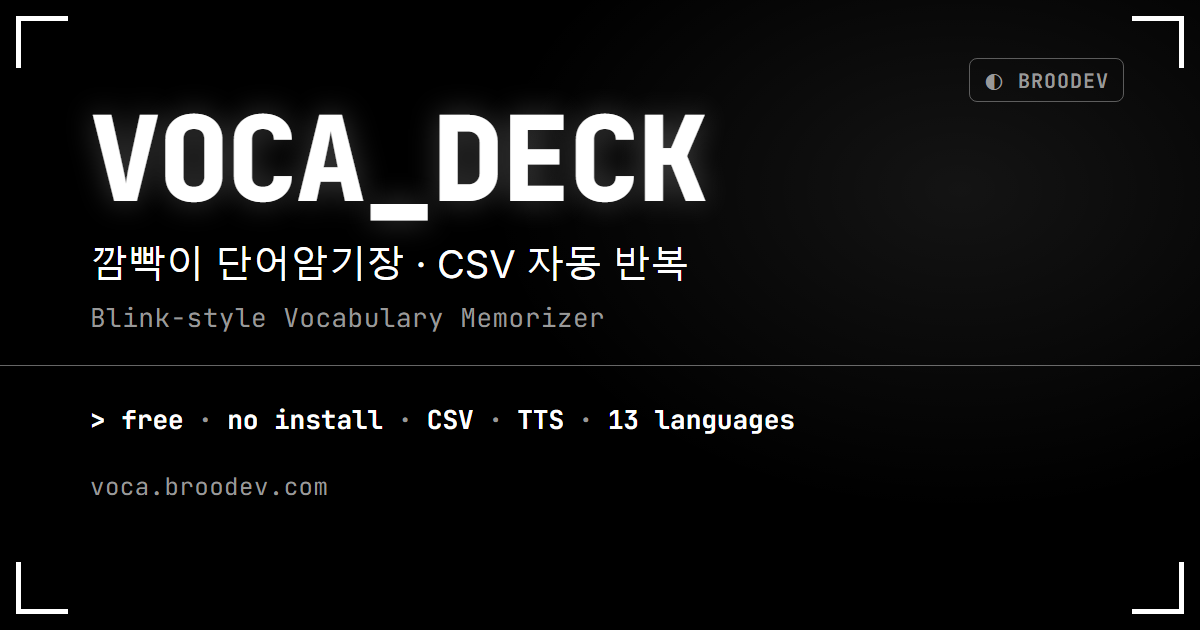
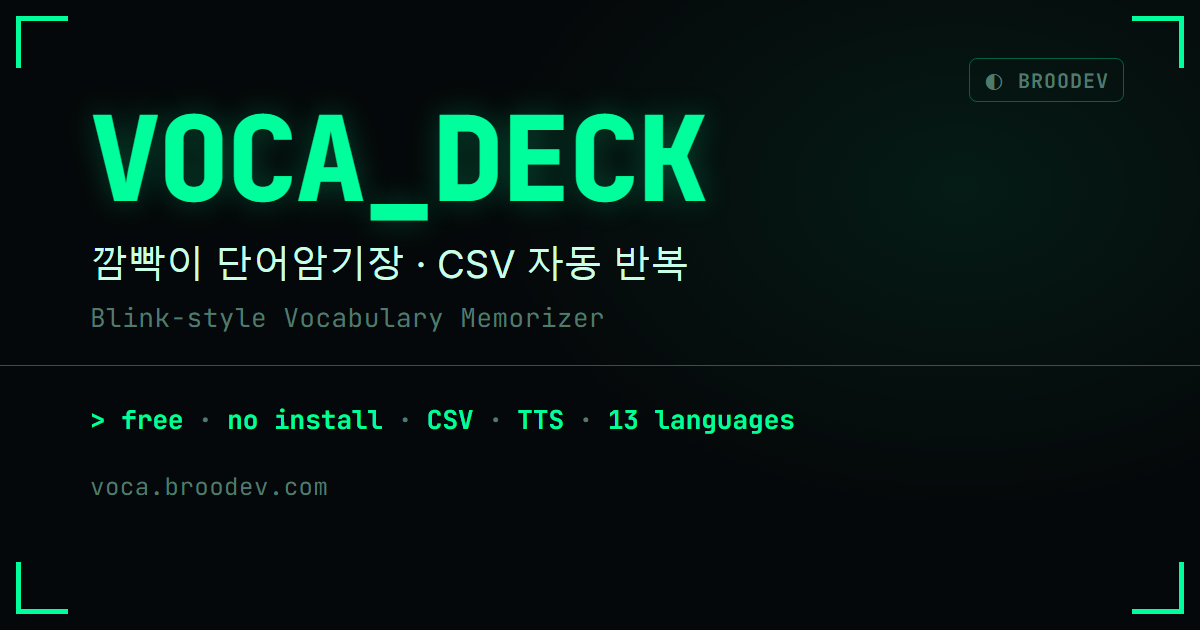
voca: BROODEV theme = btc-style neon green terminal palette (was b/w monotone); OG + portal featured card regenerated; theme.js/content.css tokens 20261005

diff --git a/apps/voca/index.html b/apps/voca/index.html
@@ -13,7 +13,7 @@
     />
     <meta name="author" content="VOCA DECK" />
     <meta name="robots" content="index, follow" />
-    <meta name="theme-color" content="#000000" /> <!-- 기본 테마 BROODEV. theme.js 가 저장된 테마에 맞춰 갱신(ORIGINAL = #000040) -->
+    <meta name="theme-color" content="#05080a" /> <!-- 기본 테마 BROODEV(btc 계열 네온 그린). theme.js 가 저장된 테마에 맞춰 갱신(ORIGINAL = #000040) -->
 
     <!-- 최초 방문 1회만 튜토리얼로 리다이렉트 (React 로드 전 실행 → 깜빡임 없음).
          voca:visited 영구 플래그로 재발 방지. 기존 사용자(저장값 보유)·봇·운영 외 도메인은 제외. -->
@@ -34,7 +34,7 @@
       })()
     </script>
     <!-- 테마(BROODEV 기본 / ORIGINAL) — CSS 보다 먼저 html[data-theme] 지정. 로직·마이그레이션은 theme.js(콘텐츠 페이지와 공용) -->
-    <script src="theme.js?v=20261003"></script>
+    <script src="theme.js?v=20261005"></script>
     <!-- 검색엔진 소유확인: 각 도구에서 발급한 토큰으로 교체 후 주석 해제 -->
     <!-- <meta name="google-site-verification" content="GOOGLE_TOKEN" /> -->
     <meta name="naver-site-verification" content="71ec011b9f547d4c358c955aee2979e8a43fee00" />
@@ -154,35 +154,37 @@
       /* ===== 테마 (2026-10-03) =====
          색은 전부 변수로만 쓴다(--panel-… · --led-… 는 원래 있던 이름, --t-… 는 테마용으로 추가. 주석 안에 별표+슬래시를 쓰면 주석이 닫히니 주의). 테마 추가 = 변수 블록 하나 더.
          html[data-theme] 는 theme.js 가 CSS 보다 먼저 지정(localStorage voca:theme, 기본 broodev), 헤더 ◐ 풀다운이 바꾼다(새로고침 없음).
-         - BROODEV(기본, :root): broodev.com 포털의 흑백 모노톤 — 검정 #000 · 흰색 · 회색 #999/#666 · 1px 반투명 테두리 · 둥근 모서리 · 흰 LED
+         - BROODEV(기본, :root): btc.broodev.com 계열(코인 시그널 15종)의 네온 그린 터미널 팔레트 — 바탕 #05080a(거의 검정) · 글자 민트 #c8ffe6 · 강조 네온 #00ff9c ·
+           보조 #4f7a6c · 패널 #0a1014 · 1px 녹색 반투명 테두리 rgba(0,255,156,.18) · 둥근 모서리 · 네온 LED. (2026-10-05 — 처음(10-03)엔 포털의 흑백 모노톤으로 잘못 잡았던 것을 교정.
+           「BROODEV 컬러 컨셉」= btc 의 검정 바탕 + 녹색 글자)
          - ORIGINAL: 원래의 남색 #000040 + 노란 글자 · Win95 회색(#d4d0c8) 베벨 제어판 · 초록 LED · 네온 로고
          표시 영역(단어 글자색·배경)은 사용자 설정(cfg.bg/fontColor)이 null 이면 테마 기본색 — JS 의 THEMES 가 담당 */
       :root {
         color-scheme: dark;
         --ui-font: 'Apple SD Gothic Neo', 'Malgun Gothic', 'Dotum', sans-serif;
-        --navy: #000000;
-        --panel-gray: #141414;                                 /* 제어판·팝오버·모달·게시판 패널 면 */
-        --panel-dark: rgba(255,255,255,.16);                   /* 베벨 두 색을 같게 → 평면 1px 테두리 */
-        --panel-light: rgba(255,255,255,.16);
-        --led-on: #ffffff; --led-off: #333333; --t-led-hi: #4a4a4a; --t-led-on-hi: #ffffff; --t-led-line: #111111; --t-led-glow: rgba(255,255,255,.7);
+        --navy: #05080a;
+        --panel-gray: #0a1014;                                 /* 제어판·팝오버·모달·게시판 패널 면 */
+        --panel-dark: rgba(0,255,156,.18);                     /* 베벨 두 색을 같게 → 평면 1px 테두리 */
+        --panel-light: rgba(0,255,156,.18);
+        --led-on: #00ff9c; --led-off: #1a3a2e; --t-led-hi: #2a5a48; --t-led-on-hi: #b6ffe0; --t-led-line: #06201a; --t-led-glow: rgba(0,255,156,.7);
         --t-bevel-w: 1px; --t-radius: 6px;
-        --t-body-bg: #000000; --t-page-bg: #000000;
-        --t-fg: #ffffff; --t-muted: #999999; --t-accent: #ffffff; --t-on-accent: #000000; --t-link: #ffffff;
-        --t-nav-bg: #000000; --t-nav-line: rgba(255,255,255,.12); --t-nav-accent: #ffffff; --t-nav-link: #999999; --t-nav-opt-bg: #1a1a1a; --t-nav-opt-fg: #ffffff;
-        --t-hdr-bg: #000000; --t-hdr-line: rgba(255,255,255,.1); --t-logo: #ffffff; --t-logo-glow: transparent; --t-hdr-dim: #4d4d4d; --t-hdr-border: rgba(255,255,255,.18); --t-hdr-btn-bg: #1a1a1a;
-        --t-inset-border: 1px solid rgba(255,255,255,.14); --t-pane-line: rgba(255,255,255,.25); --t-group-border: 1px solid rgba(255,255,255,.14);
-        --t-panel-fg: #e6e6e6; --t-panel-fg2: #cccccc; --t-panel-dim: #999999; --t-panel-dim2: #888888; --t-panel-top: 1px solid rgba(255,255,255,.12);
-        --t-btn-bg: #222222; --t-btn-active-bg: #2e2e2e; --t-sub-bg: #1f1f1f; --t-sub-bg2: #1a1a1a; --t-input-bg: #000000; --t-disabled: #555555;
-        --t-quit-bg: #ffffff; --t-quit-fg: #000000; --t-quit-line: #ffffff; --t-next-bg: #ffffff; --t-next-fg: #000000; --t-next-line: #ffffff;
-        --t-lbl-on-bg: #2a2a2a; --t-lbl-on-line: #777777; --t-focus: #ffffff; --t-check: #ffffff;
-        --t-shadow: 0 8px 24px rgba(0,0,0,.6); --t-shadow-lg: 0 12px 40px rgba(0,0,0,.7); --t-overlay: rgba(0,0,0,.7); --t-toast-fg: #ffffff;
-        --t-jump-bg: rgba(26,26,26,.85); --t-jump-bg-fixed: rgba(26,26,26,.95); --t-jump-line: rgba(255,255,255,.3); --t-jump-fg: #cccccc;
-        --t-tab-bg: #0d0d0d; --t-tab-fg: #999999;
-        --t-table-fg: #e6e6e6; --t-table-dim: #777777; --t-th-bg: #1a1a1a; --t-th-line: rgba(255,255,255,.14); --t-row-line: rgba(255,255,255,.08); --t-row-hover: #161616; --t-row-applied: #1c1c1c;
-        --t-ok: #ffffff; --t-bad: #ff7676; --t-err-bg: #3a1414; --t-hl: rgba(255,255,255,.12);
-        --t-prm-bg: #1a1a1a; --t-prm-line: rgba(255,255,255,.3); --t-badge-fg: #000000; --t-badge-line: #ffffff;
-        --t-code-bg: #1a1a1a; --t-foot-line: rgba(255,255,255,.1); --t-foot-fg: #666666;
-        --t-empty-top: #777777; --t-empty-bot: #555555;
+        --t-body-bg: #05080a; --t-page-bg: #05080a;
+        --t-fg: #c8ffe6; --t-muted: #4f7a6c; --t-accent: #00ff9c; --t-on-accent: #04110c; --t-link: #00ff9c;
+        --t-nav-bg: #05080a; --t-nav-line: rgba(0,255,156,.18); --t-nav-accent: #00ff9c; --t-nav-link: #8fb3a6; --t-nav-opt-bg: #0a1014; --t-nav-opt-fg: #c8ffe6;
+        --t-hdr-bg: #05080a; --t-hdr-line: rgba(0,255,156,.18); --t-logo: #00ff9c; --t-logo-glow: rgba(0,255,156,.45); --t-hdr-dim: #2f4a40; --t-hdr-border: rgba(0,255,156,.3); --t-hdr-btn-bg: #0a1014;
+        --t-inset-border: 1px solid rgba(0,255,156,.2); --t-pane-line: rgba(0,255,156,.3); --t-group-border: 1px solid rgba(0,255,156,.2);
+        --t-panel-fg: #c8ffe6; --t-panel-fg2: #a9d9c4; --t-panel-dim: #4f7a6c; --t-panel-dim2: #3f6a5c; --t-panel-top: 1px solid rgba(0,255,156,.18);
+        --t-btn-bg: #0d1a16; --t-btn-active-bg: #12241c; --t-sub-bg: #0d1a16; --t-sub-bg2: #0a1410; --t-input-bg: #000000; --t-disabled: #2f4a40;
+        --t-quit-bg: #ff3b5c; --t-quit-fg: #ffffff; --t-quit-line: #ff3b5c; --t-next-bg: #00ff9c; --t-next-fg: #04110c; --t-next-line: #00ff9c;
+        --t-lbl-on-bg: #0d1f17; --t-lbl-on-line: #00ff9c; --t-focus: #00ff9c; --t-check: #00ff9c;
+        --t-shadow: 0 8px 24px rgba(0,0,0,.6); --t-shadow-lg: 0 12px 40px rgba(0,0,0,.7); --t-overlay: rgba(0,0,0,.7); --t-toast-fg: #00ff9c;
+        --t-jump-bg: rgba(10,16,20,.85); --t-jump-bg-fixed: rgba(10,16,20,.95); --t-jump-line: rgba(0,255,156,.3); --t-jump-fg: #8fb3a6;
+        --t-tab-bg: #070c0f; --t-tab-fg: #8fb3a6;
+        --t-table-fg: #c8ffe6; --t-table-dim: #4f7a6c; --t-th-bg: #0a1a14; --t-th-line: rgba(0,255,156,.18); --t-row-line: rgba(0,255,156,.08); --t-row-hover: #0a1410; --t-row-applied: #0d1f17;
+        --t-ok: #00ff9c; --t-bad: #ff3b5c; --t-err-bg: #3a1414; --t-hl: rgba(0,255,156,.12);
+        --t-prm-bg: #0a1a14; --t-prm-line: rgba(0,255,156,.35); --t-badge-fg: #04110c; --t-badge-line: #00ff9c;
+        --t-code-bg: #0a1014; --t-foot-line: rgba(0,255,156,.12); --t-foot-fg: #4f7a6c;
+        --t-empty-top: #4f7a6c; --t-empty-bot: #2f4a40;
       }
       html[data-theme="original"] {
         color-scheme: light;
@@ -599,7 +601,7 @@
           var th = tsel.value;
           document.documentElement.setAttribute('data-theme', th);
           try { localStorage.setItem('voca:theme', JSON.stringify(th)); } catch (e) {}
-          var m = document.querySelector('meta[name="theme-color"]'); if (m) m.setAttribute('content', th === 'original' ? '#000040' : '#000000');
+          var m = document.querySelector('meta[name="theme-color"]'); if (m) m.setAttribute('content', th === 'original' ? '#000040' : '#05080a');
           try { window.dispatchEvent(new CustomEvent('voca:theme', { detail: th })); } catch (e) {}
         });
         toggle.addEventListener('click', function () {
@@ -1603,7 +1605,7 @@
       }
       /* 테마별 표시 영역 기본색 + 스와치 프리셋. 나머지 UI 색은 CSS 변수(html[data-theme])가 담당 — 진실은 html[data-theme] 속성(theme.js · 헤더 풀다운) */
       const THEMES = {
-        broodev:  { bg: '#000000', fg: '#ffffff', bgPresets: ['#000000', '#111111', '#1f1f1f', '#000040', '#0a1a0a'], fgPresets: ['#ffffff', '#cccccc', '#999999', '#ffff00', '#66ccff'] },
+        broodev:  { bg: '#000000', fg: '#00ff9c', bgPresets: ['#000000', '#05080a', '#0a1014', '#000040', '#111111'], fgPresets: ['#00ff9c', '#c8ffe6', '#ffffff', '#ffff00', '#66ccff'] },   // btc 계열: 검정 바탕 + 네온 그린 글자
         original: { bg: '#000040', fg: '#ffff00', bgPresets: ['#000040', '#000000', '#000066', '#0a1a0a', '#1a0a0a'], fgPresets: ['#ffff00', '#ffffff', '#66ff66', '#66ccff', '#ffb000'] },
       }
       const readTheme = () => { const v = document.documentElement.getAttribute('data-theme'); return THEMES[v] ? v : 'broodev' }

diff --git a/apps/voca/content.css b/apps/voca/content.css
@@ -2,24 +2,25 @@
    페이지마다 <style>을 복붙하지 않는다.
    테마(2026-10-03): 본체 index.html 과 같은 html[data-theme] 를 따른다 — 각 페이지 <head> 의 theme.js 가 CSS 보다 먼저 지정(localStorage voca:theme).
    색은 전부 아래 변수로만 쓴다. 테마 추가 = 변수 블록 하나 더.
-   - BROODEV(기본, :root): broodev.com 포털의 흑백 모노톤 — 검정 바탕 · #111 패널 · 흰 글자 · 회색 보조 · 1px 반투명 테두리 · 둥근 모서리
+   - BROODEV(기본, :root): btc.broodev.com 계열 네온 그린 터미널 — 바탕 #05080a · 패널 #0a1014 · 민트 글자 #c8ffe6 · 강조 #00ff9c · 보조 #4f7a6c · 1px 녹색 반투명 테두리 · 둥근 모서리
+     (2026-10-05 — 처음의 흑백 모노톤에서 교정. 본체 index.html :root 와 같은 팔레트)
    - ORIGINAL: 원래의 남색 바탕 · Win95 회색 베벨 패널 · 초록 LED 타이틀바 · 흰 표/코드 상자 */
 :root {
   color-scheme: dark;
   --ui-font: 'Apple SD Gothic Neo', 'Malgun Gothic', 'Dotum', sans-serif;
-  --navy: #000000;                       /* 페이지 바탕 · 타이틀바 · 헤더 (이름은 ORIGINAL 시절 것, 값만 테마별) */
-  --panel-gray: #111111;                 /* 본문 패널 면 */
-  --panel-dark: rgba(255,255,255,.16);   /* 베벨 두 색을 같게 → 평면 1px 테두리 */
-  --panel-light: rgba(255,255,255,.16);
-  --led-on: #ffffff;                     /* 타이틀바 글자 · 헤더 브랜드/활성 메뉴 */
-  --led-off: #333333;
-  --ink: #ffffff; --ink-dim: #bbbbbb; --muted: #777777;
-  --link: #ffffff; --link-strong: #ffffff;
-  --surface: #0a0a0a;                    /* 표·코드·메모·목차·관련 글 상자 */
-  --band: #1a1a1a; --band-fg: #ffffff;   /* h2 · th 띠 */
-  --accent: #ffffff;                     /* 메모 왼쪽 띠 · 카드 hover 테두리 */
-  --warn: #ff7676;
-  --nav-link: #999999; --nav-line: rgba(255,255,255,.12);
+  --navy: #05080a;                       /* 페이지 바탕 · 타이틀바 · 헤더 (이름은 ORIGINAL 시절 것, 값만 테마별) */
+  --panel-gray: #0a1014;                 /* 본문 패널 면 */
+  --panel-dark: rgba(0,255,156,.18);     /* 베벨 두 색을 같게 → 평면 1px 테두리 */
+  --panel-light: rgba(0,255,156,.18);
+  --led-on: #00ff9c;                     /* 타이틀바 글자 · 헤더 브랜드/활성 메뉴 */
+  --led-off: #1a3a2e;
+  --ink: #c8ffe6; --ink-dim: #a9d9c4; --muted: #4f7a6c;
+  --link: #00ff9c; --link-strong: #00ff9c;
+  --surface: #070c0f;                    /* 표·코드·메모·목차·관련 글 상자 */
+  --band: #0a1a14; --band-fg: #00ff9c;   /* h2 · th 띠 */
+  --accent: #00ff9c;                     /* 메모 왼쪽 띠 · 카드 hover 테두리 */
+  --warn: #ffb000;
+  --nav-link: #8fb3a6; --nav-line: rgba(0,255,156,.18);
   --bevel-w: 1px; --radius: 12px;
 }
 html[data-theme="original"] {

diff --git a/apps/voca/theme.js b/apps/voca/theme.js
@@ -1,6 +1,6 @@
 /* VOCA DECK 테마 초기화 — <head> 에서 CSS 보다 먼저 동기 실행(첫 페인트 전에 html[data-theme] 확정 → 깜빡임 없음).
    index.html(앱)과 콘텐츠 페이지(content.css)가 같이 쓴다. 테마 풀다운은 index.html 헤더에만 있고, 선택은 localStorage voca:theme 로 전 페이지 공유.
-   - 'broodev'(기본): broodev.com 포털의 흑백 모노톤  · 'original': 원래의 남색+노랑 · Win95 회색 제어판 · 초록 LED
+   - 'broodev'(기본): btc.broodev.com 계열 네온 그린 터미널(바탕 #05080a · 글자 #c8ffe6 · 강조 #00ff9c — 2026-10-05 흑백 모노톤에서 교정) · 'original': 원래의 남색+노랑 · Win95 회색 제어판 · 초록 LED
    - 최초 1회 마이그레이션: 테마 도입(2026-10-03) 전부터 쓰던 사용자의 voca:cfg 표시색이 옛 기본값(배경 #000040 · 글자 #ffff00) 그대로면
      '테마 기본색 따름'(null) 으로 바꾼다. 직접 고른 다른 색은 건드리지 않는다. voca:theme 가 저장되면 다시는 돌지 않는다. */
 (function () {
@@ -16,5 +16,5 @@
   }
   document.documentElement.setAttribute('data-theme', t)
   var m = document.querySelector('meta[name="theme-color"]')
-  if (m) m.setAttribute('content', t === 'original' ? '#000040' : '#000000')
+  if (m) m.setAttribute('content', t === 'original' ? '#000040' : '#05080a')
 })()

diff --git a/apps/voca/csv-guide.html b/apps/voca/csv-guide.html
@@ -14,8 +14,8 @@
     <link rel="icon" href="/favicon.ico" sizes="any" />
     <link rel="shortcut icon" href="/favicon.ico" />
     <!-- 테마(BROODEV 기본 / ORIGINAL, 본체 index 헤더에서 선택) — CSS 보다 먼저 html[data-theme] 지정 -->
-    <script src="/theme.js?v=20261003"></script>
-    <link rel="stylesheet" href="/content.css?v=20261003" />
+    <script src="/theme.js?v=20261005"></script>
+    <link rel="stylesheet" href="/content.css?v=20261005" />
     <!-- Google AdSense (Auto ads) — 이 페이지는 원본 해설 콘텐츠다. 광고 게재 화면 = 콘텐츠 화면.
          (이전에는 광고가 대시보드에만 있고 정작 콘텐츠 페이지엔 없어서, AdSense 가 심사하는
           "광고가 게재되는 화면"의 콘텐츠가 얇았다.) -->

diff --git a/apps/voca/exam-vocabulary.html b/apps/voca/exam-vocabulary.html
@@ -14,8 +14,8 @@
     <link rel="icon" href="/favicon.ico" sizes="any" />
     <link rel="shortcut icon" href="/favicon.ico" />
     <!-- 테마(BROODEV 기본 / ORIGINAL, 본체 index 헤더에서 선택) — CSS 보다 먼저 html[data-theme] 지정 -->
-    <script src="/theme.js?v=20261003"></script>
-    <link rel="stylesheet" href="/content.css?v=20261003" />
+    <script src="/theme.js?v=20261005"></script>
+    <link rel="stylesheet" href="/content.css?v=20261005" />
     <!-- Google AdSense (Auto ads) — 이 페이지는 원본 해설 콘텐츠다. 광고 게재 화면 = 콘텐츠 화면.
          (이전에는 광고가 대시보드에만 있고 정작 콘텐츠 페이지엔 없어서, AdSense 가 심사하는
           "광고가 게재되는 화면"의 콘텐츠가 얇았다.) -->

diff --git a/apps/voca/method.html b/apps/voca/method.html
@@ -14,8 +14,8 @@
     <link rel="icon" href="/favicon.ico" sizes="any" />
     <link rel="shortcut icon" href="/favicon.ico" />
     <!-- 테마(BROODEV 기본 / ORIGINAL, 본체 index 헤더에서 선택) — CSS 보다 먼저 html[data-theme] 지정 -->
-    <script src="/theme.js?v=20261003"></script>
-    <link rel="stylesheet" href="/content.css?v=20261003" />
+    <script src="/theme.js?v=20261005"></script>
+    <link rel="stylesheet" href="/content.css?v=20261005" />
     <!-- Google AdSense (Auto ads) — 이 페이지는 원본 해설 콘텐츠다. 광고 게재 화면 = 콘텐츠 화면.
          (이전에는 광고가 대시보드에만 있고 정작 콘텐츠 페이지엔 없어서, AdSense 가 심사하는
           "광고가 게재되는 화면"의 콘텐츠가 얇았다.) -->

diff --git a/apps/voca/spaced-repetition.html b/apps/voca/spaced-repetition.html
@@ -15,8 +15,8 @@
     <link rel="icon" href="/favicon.ico" sizes="any" />
     <link rel="shortcut icon" href="/favicon.ico" />
     <!-- 테마(BROODEV 기본 / ORIGINAL, 본체 index 헤더에서 선택) — CSS 보다 먼저 html[data-theme] 지정 -->
-    <script src="/theme.js?v=20261003"></script>
-    <link rel="stylesheet" href="/content.css?v=20261003" />
+    <script src="/theme.js?v=20261005"></script>
+    <link rel="stylesheet" href="/content.css?v=20261005" />
     <!-- Google AdSense (Auto ads) — 이 페이지는 원본 해설 콘텐츠다. 광고 게재 화면 = 콘텐츠 화면.
          (이전에는 광고가 대시보드에만 있고 정작 콘텐츠 페이지엔 없어서, AdSense 가 심사하는
           "광고가 게재되는 화면"의 콘텐츠가 얇았다.) -->

diff --git a/apps/voca/study-guide.html b/apps/voca/study-guide.html
@@ -14,8 +14,8 @@
     <link rel="icon" href="/favicon.ico" sizes="any" />
     <link rel="shortcut icon" href="/favicon.ico" />
     <!-- 테마(BROODEV 기본 / ORIGINAL, 본체 index 헤더에서 선택) — CSS 보다 먼저 html[data-theme] 지정 -->
-    <script src="/theme.js?v=20261003"></script>
-    <link rel="stylesheet" href="/content.css?v=20261003" />
+    <script src="/theme.js?v=20261005"></script>
+    <link rel="stylesheet" href="/content.css?v=20261005" />
     <!-- Google AdSense (Auto ads) — 이 페이지는 원본 해설 콘텐츠다. 광고 게재 화면 = 콘텐츠 화면.
          (이전에는 광고가 대시보드에만 있고 정작 콘텐츠 페이지엔 없어서, AdSense 가 심사하는
           "광고가 게재되는 화면"의 콘텐츠가 얇았다.) -->

diff --git a/apps/voca/tts-pronunciation.html b/apps/voca/tts-pronunciation.html
@@ -16,8 +16,8 @@
     <link rel="icon" href="/favicon.ico" sizes="any" />
     <link rel="shortcut icon" href="/favicon.ico" />
     <!-- 테마(BROODEV 기본 / ORIGINAL, 본체 index 헤더에서 선택) — CSS 보다 먼저 html[data-theme] 지정 -->
-    <script src="/theme.js?v=20261003"></script>
-    <link rel="stylesheet" href="/content.css?v=20261003" />
+    <script src="/theme.js?v=20261005"></script>
+    <link rel="stylesheet" href="/content.css?v=20261005" />
     <!-- Google AdSense (Auto ads) — 이 페이지는 원본 해설 콘텐츠다. 광고 게재 화면 = 콘텐츠 화면.
          (이전에는 광고가 대시보드에만 있고 정작 콘텐츠 페이지엔 없어서, AdSense 가 심사하는
           "광고가 게재되는 화면"의 콘텐츠가 얇았다.) -->

diff --git a/apps/voca/about.html b/apps/voca/about.html
@@ -14,8 +14,8 @@
     <link rel="icon" href="/favicon.ico" sizes="any" />
     <link rel="shortcut icon" href="/favicon.ico" />
     <!-- 테마(BROODEV 기본 / ORIGINAL, 본체 index 헤더에서 선택) — CSS 보다 먼저 html[data-theme] 지정 -->
-    <script src="/theme.js?v=20261003"></script>
-    <link rel="stylesheet" href="/content.css?v=20261003" />
+    <script src="/theme.js?v=20261005"></script>
+    <link rel="stylesheet" href="/content.css?v=20261005" />
     <script type="application/ld+json">
       {
         "@context": "https://schema.org",

diff --git a/apps/voca/404.html b/apps/voca/404.html
@@ -6,8 +6,8 @@
     <title>페이지를 찾을 수 없습니다 (404) | VOCA DECK</title>
     <meta name="robots" content="noindex, follow" />
     <!-- 테마(BROODEV 기본 / ORIGINAL, 본체 index 헤더에서 선택) — CSS 보다 먼저 html[data-theme] 지정 -->
-    <script src="/theme.js?v=20261003"></script>
-    <link rel="stylesheet" href="/content.css?v=20261003" />
+    <script src="/theme.js?v=20261005"></script>
+    <link rel="stylesheet" href="/content.css?v=20261005" />
   </head>
   <body>
     <nav class="site-nav" aria-label="VOCA DECK">

diff --git a/apps/home/README.md b/apps/home/README.md
@@ -40,7 +40,7 @@
 | `assets/css/portal.css` | 템플릿 위에 얹는 포털 전용 스타일(워드마크 `.brand-mark` · `.nav-apps` · 모달 · 카드 · 페이지네이션 · 폼 상태 · 푸터 `.footer-legal` · 언어 풀다운 `.portal-lang*`(legal.css 의 `.legal-lang*` 과 같은 룩, 좁은 화면은 아이콘만) · 404 문단 수정) |
 | `assets/js/main.js` | 템플릿 JS(프리로더 · 커서 · 사이드바 · GSAP 리빌). web3forms 문의 블록만 제거 |
 | `assets/css/style.css` `responsive.css` | 템플릿 원본 CSS(수정 없음) |
-| `assets/images/featured-*.png` | 대표 앱 3종 카드(각 앱 og-image 1200×630 복사본): `btc` · `utils`(2026-10-03 사무라이 택틱스 2 → 업무 도구 모음으로 교체) · `voca`(2026-10-03 앱 기본 테마 BROODEV 에 맞춘 흑백 OG 로 교체 — `node scripts/og/gen_og.mjs voca` 뒤 복사) |
+| `assets/images/featured-*.png` | 대표 앱 3종 카드(각 앱 og-image 1200×630 복사본): `btc` · `utils`(2026-10-03 사무라이 택틱스 2 → 업무 도구 모음으로 교체) · `voca`(앱 기본 테마 BROODEV 와 같은 팔레트 — 2026-10-05 btc 계열 네온 그린으로 재생성, `node scripts/og/gen_og.mjs voca` 뒤 복사) |
 | `assets/images/contact.png` | 템플릿 원본 비주얼 — 확장자는 .png 지만 **AVIF 컨테이너**(브라우저 렌더 정상, 일부 도구는 못 읽음). `service1-4.png`·`service-icon1-4.svg`·`arrow-down.svg` 는 원칙 섹션과 함께 제거 |
 | `404.html` | 템플릿 error-page 레이아웃 · 13개 언어(`<body data-i18n-page="404">`, `nf_*` 키 · 헤더 메뉴·푸터 라벨도 `data-i18n`) · "전체 앱 보기" → `/#apps` · 하단 `.footer-legal` 법적 링크. **경로는 전부 절대(`/assets/…`)** — Pages 는 어느 깊이의 미존재 URL 에도 이 파일을 그대로 내보내므로 상대 경로면 CSS/JS 가 깨진다(2026-10-04) |
 | `premium.html` | **전 앱 프리미엄 총람**(Stripe 심사용 판매 페이지) — 앱별 카드(`.plan-grid`, 가격은 `legal/biz.js` `PLANS.*` 에서 `data-price="utils.yearly"` 식으로 채움, 「準備中」 카드 `.soon`) · 공통 조건(税込 · 자동 갱신/해지 · 3대 · Stripe) · 「ご購入前にご確認ください」 · FAQ. ja/ko/en 3개 `<article data-lang-block>` |
